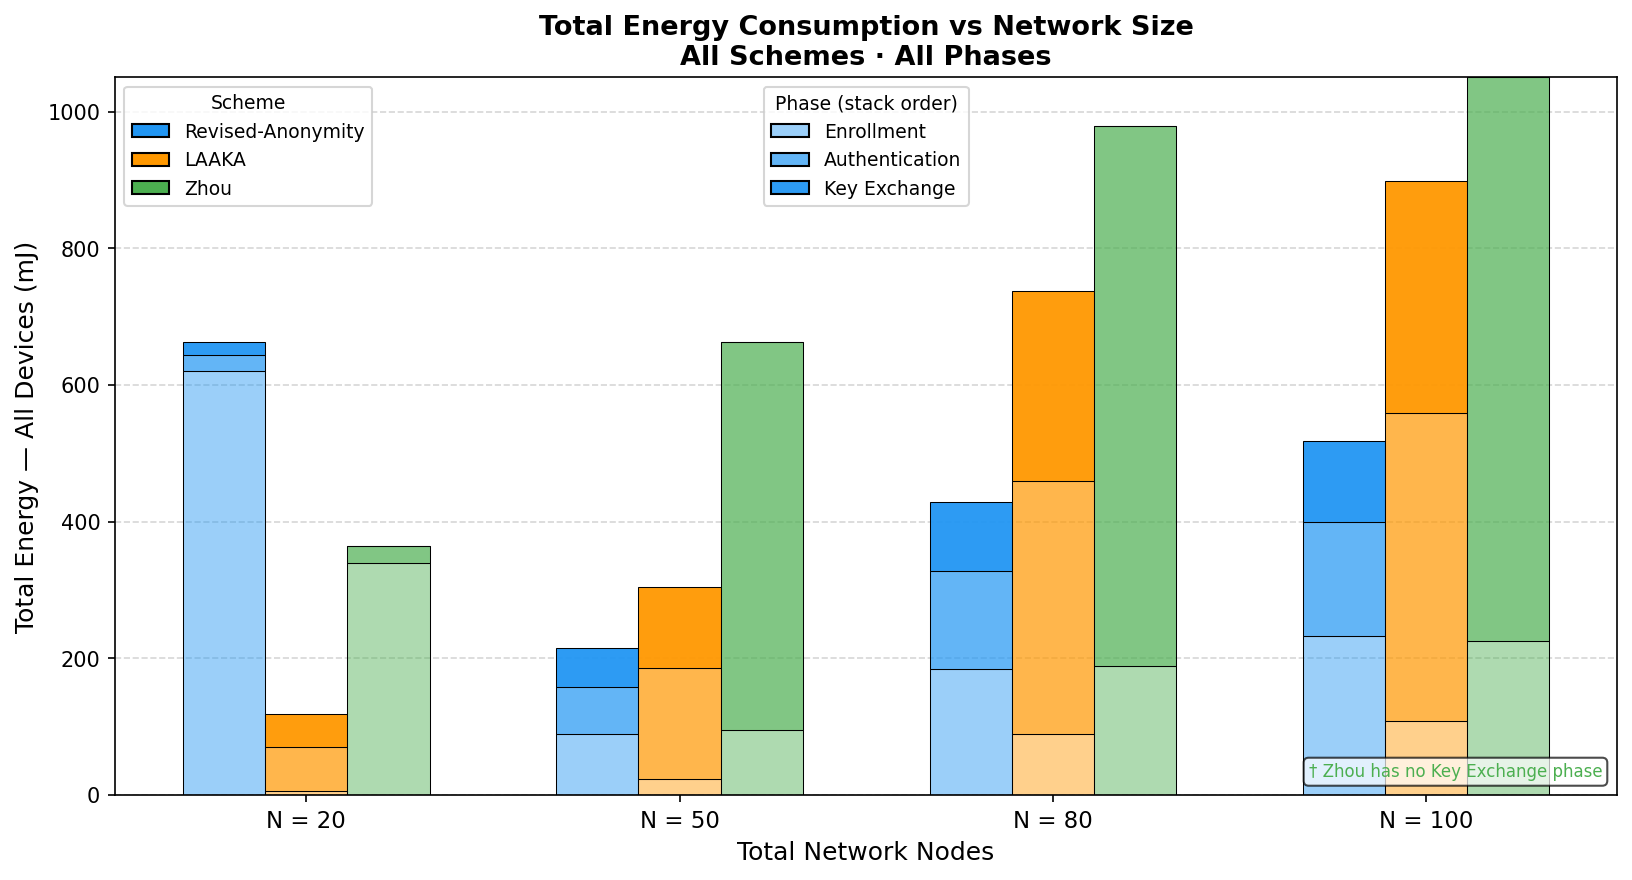
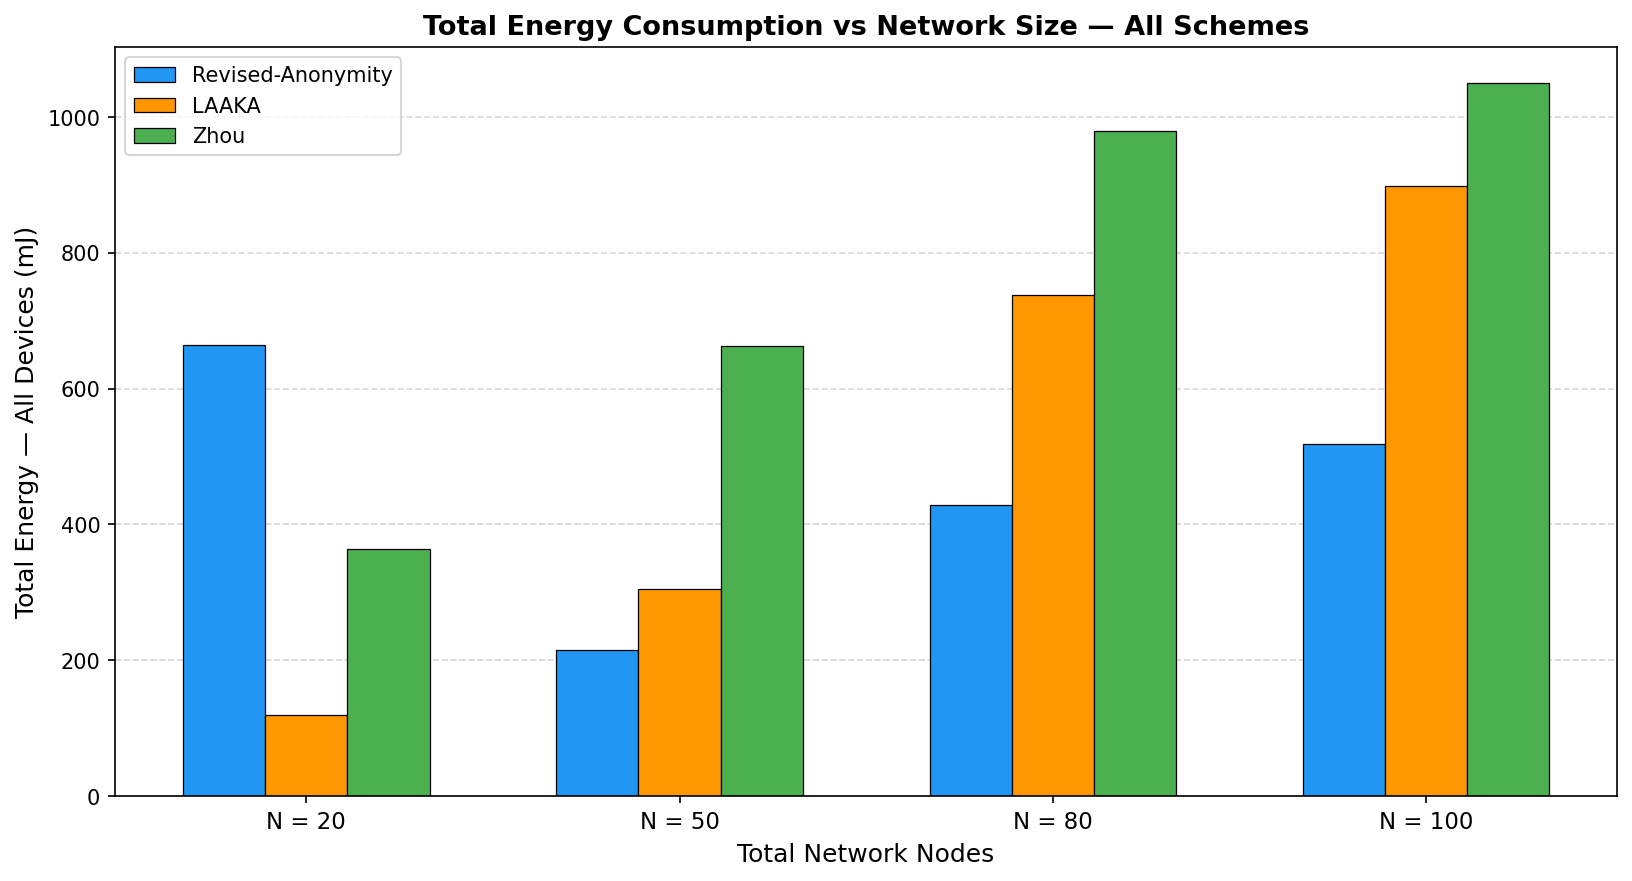
Simplify chart 12: remove phase stacking, single solid bar per scheme

diff --git a/Scripts/Simulation-Runners/plot_network_variation.py b/Scripts/Simulation-Runners/plot_network_variation.py
@@ -276,78 +276,42 @@ def total_energy_grouped_bar(out_path, show=False):
     """
     X-axis: network size groups (N=20, 50, 80, 100).
     3 bars per group — one per scheme, colour-coded by scheme.
-    Each bar is stacked: Enrollment (bottom) → Auth → Key Exchange (top).
-    Bar height = avg_energy × n_devices (total energy consumed by all devices).
+    Bar height = total energy across ALL phases × n_devices (no phase stacking).
     """
-    phases   = ["Enrollment", "Authentication", "Key Exchange"]
-    schemes  = list(RESULTS.keys())
-    n_s      = len(schemes)
-    x        = np.arange(len(SIZES))
-    width    = 0.22
+    phases  = ["Enrollment", "Authentication", "Key Exchange"]
+    schemes = list(RESULTS.keys())
+    n_s     = len(schemes)
+    x       = np.arange(len(SIZES))
+    width   = 0.22
 
     fig, ax = plt.subplots(figsize=(11, 6))
 
-    # track handles for legend
-    scheme_handles = []
-    phase_handles  = []
-
     for si, scheme in enumerate(schemes):
-        offsets = x + (si - (n_s - 1) / 2) * width
-        bottoms = np.zeros(len(SIZES))
+        offsets   = x + (si - (n_s - 1) / 2) * width
+        bar_totals = []
+        for n in SIZES:
+            d   = load_summary(scheme, n)
+            tot = 0.0
+            if d:
+                for phase in phases:
+                    if phase in d:
+                        tot += d[phase]["avg_energy"] * d[phase]["n_devices"]
+            bar_totals.append(tot)
 
-        for pi, phase in enumerate(phases):
-            bar_vals = []
-            for n in SIZES:
-                d = load_summary(scheme, n)
-                if d and phase in d:
-                    val = d[phase]["avg_energy"] * d[phase]["n_devices"]
-                else:
-                    val = 0.0
-                bar_vals.append(val)
-            bar_vals = np.array(bar_vals)
-
-            # blend scheme colour with phase shade
-            base_hex = SCHEME_COLORS[scheme].lstrip("#")
-            r, g, b  = (int(base_hex[i:i+2], 16) / 255 for i in (0, 2, 4))
-            alpha    = 0.45 + 0.25 * pi      # darker for later phases
-
-            bars = ax.bar(offsets, bar_vals, width, bottom=bottoms,
-                          color=(r, g, b, alpha),
-                          edgecolor="black", linewidth=0.5)
-            bottoms += bar_vals
-
-            if si == 0:   # collect phase patch handle once
-                import matplotlib.patches as mpatches
-                phase_handles.append(
-                    mpatches.Patch(facecolor=(r, g, b, alpha),
-                                   edgecolor="black", label=phase))
-
-        # scheme handle: solid colour bar for legend
-        scheme_handles.append(
-            plt.Rectangle((0, 0), 1, 1,
-                           facecolor=SCHEME_COLORS[scheme],
-                           edgecolor="black", label=scheme))
+        ax.bar(offsets, bar_totals, width,
+               label=scheme,
+               color=SCHEME_COLORS[scheme],
+               edgecolor="black", linewidth=0.6)
 
     ax.set_xticks(x)
     ax.set_xticklabels([f"N = {n}" for n in SIZES], fontsize=11)
     ax.set_xlabel("Total Network Nodes", fontsize=12)
     ax.set_ylabel("Total Energy — All Devices (mJ)", fontsize=12)
-    ax.set_title("Total Energy Consumption vs Network Size\nAll Schemes · All Phases",
+    ax.set_title("Total Energy Consumption vs Network Size — All Schemes",
                  fontsize=13, fontweight="bold")
     ax.yaxis.grid(True, linestyle="--", alpha=0.5)
     ax.set_axisbelow(True)
-
-    # Two-part legend: schemes on left, phases on right
-    leg1 = ax.legend(handles=scheme_handles, title="Scheme",
-                     loc="upper left", fontsize=9, title_fontsize=9)
-    ax.add_artist(leg1)
-    ax.legend(handles=phase_handles, title="Phase (stack order)",
-              loc="upper center", fontsize=9, title_fontsize=9)
-
-    ax.annotate("† Zhou has no Key Exchange phase",
-                xy=(0.99, 0.02), xycoords="axes fraction",
-                ha="right", va="bottom", fontsize=8, color="#4CAF50",
-                bbox=dict(boxstyle="round,pad=0.3", fc="white", alpha=0.7))
+    ax.legend(fontsize=10)
 
     fig.tight_layout()
     fig.savefig(out_path, dpi=150, bbox_inches="tight")
